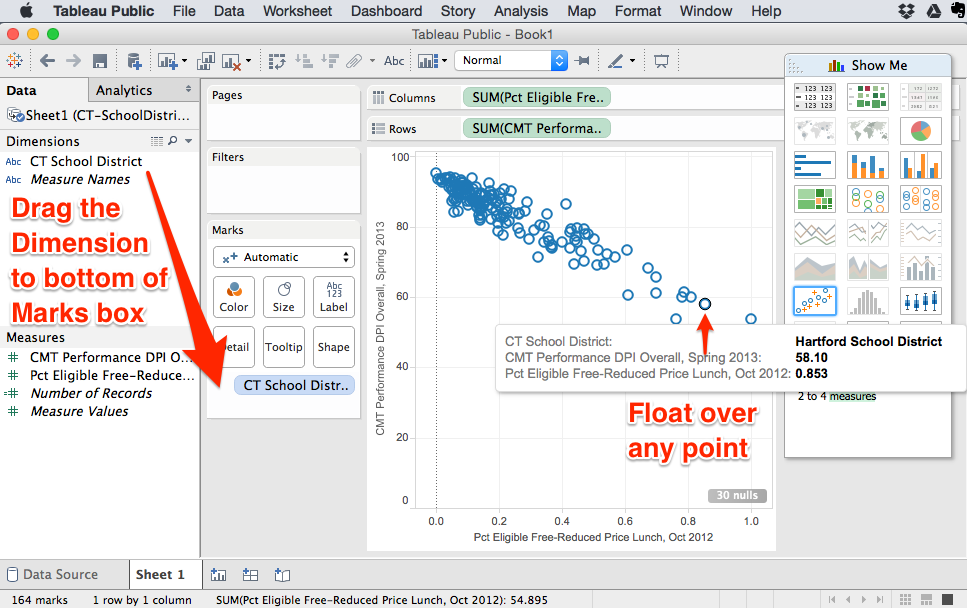
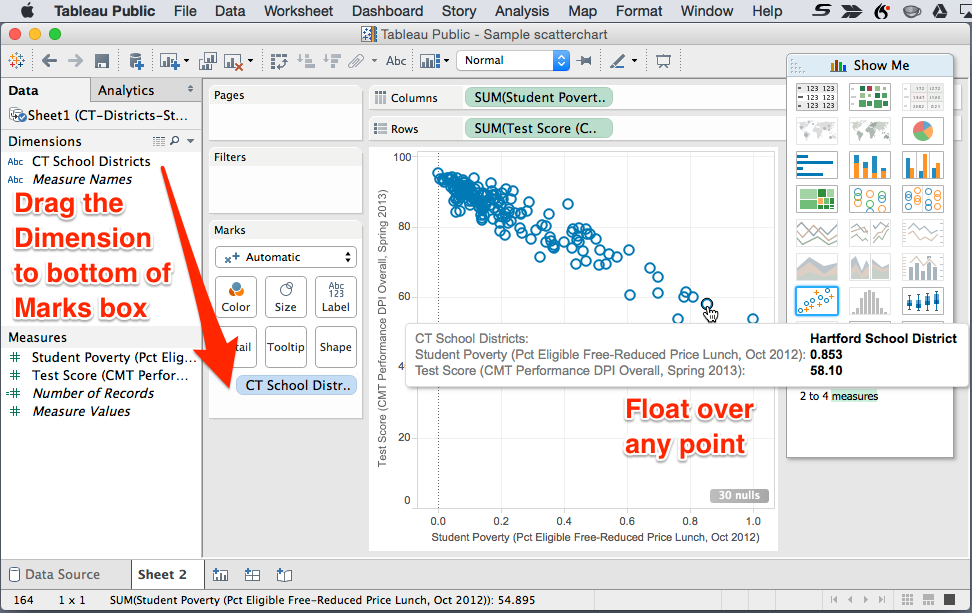
updated scatter chart

Changed region(s): [[0.0, 0.0, 1.0, 1.0], [0.2172, 0.25, 0.2482, 0.2812]]

diff --git a/chart/scatter-chart-tableau/README.md b/chart/scatter-chart-tableau/README.md
@@ -1,15 +1,17 @@
 # Create an XY Scatter Chart with Tableau Public
 
-A scatter chart shows the relationship between two variables by displaying a series of XY coordinate points. For example, if you want to view the relationship between a school district's test scores and its student poverty levels, place both of these variables inside an XY scatter chart, as shown below. With an online interactive version, viewers can explore the data and float over or click any point to see its label.
+*by [Jack Dougherty](introduction/contributors.md), last updated February 16, 2016*
 
-<!-- TO DO insert iframe of test and poverty here -->
+A scatter chart shows the relationship between two variables by displaying a series of XY coordinate points. For example, if you want to view the relationship between a school district's test scores and its student poverty levels, place both of these variables inside an XY scatter chart, as shown below. With an online interactive version, viewers can explore the data and float over or click any point to see its label. Try this sample:
+
+<script type='text/javascript' src='https://public.tableau.com/javascripts/api/viz_v1.js'></script><div class='tableauPlaceholder' style='width: 981px; height: 741px;'><noscript><a href='http:&#47;&#47;www.datavizbook.org&#47;content&#47;chart&#47;scatter-chart-tableau&#47;index.html'><img alt='Sheet1 ' src='https:&#47;&#47;public.tableau.com&#47;static&#47;images&#47;Da&#47;DataVizBook-simple-scatterchart&#47;Sheet1&#47;1_rss.png' style='border: none' /></a></noscript><object class='tableauViz' width='981' height='741' style='display:none;'><param name='host_url' value='https%3A%2F%2Fpublic.tableau.com%2F' /> <param name='site_root' value='' /><param name='name' value='DataVizBook-simple-scatterchart&#47;Sheet1' /><param name='tabs' value='no' /><param name='toolbar' value='yes' /><param name='static_image' value='https:&#47;&#47;public.tableau.com&#47;static&#47;images&#47;Da&#47;DataVizBook-simple-scatterchart&#47;Sheet1&#47;1.png' /> <param name='animate_transition' value='yes' /><param name='display_static_image' value='yes' /><param name='display_spinner' value='yes' /><param name='display_overlay' value='yes' /><param name='display_count' value='yes' /><param name='showVizHome' value='no' /><param name='showTabs' value='y' /><param name='bootstrapWhenNotified' value='true' /></object></div>
 
 ## Prepare your XY data
-For a simple XY scatter chart, create a spreadsheet that contains three columns: data labels, variable 1, and variable 2. For example, to compare how Connecticut school districts vary by student poverty and standardized test scores, I created this 3-column spreadsheet from two different tables that I found in the [Connecticut Open Data repository, Education section](https://data.ct.gov/Education).
+For a simple XY scatter chart, create a spreadsheet that contains three columns: data labels, variable 1, and variable 2. For example, to compare how Connecticut school districts vary by student poverty and test scores, this 3-column spreadsheet was created from two different tables in the [Connecticut Open Data repository, Education section](https://data.ct.gov/Education). [Download the sample data](CT-Districts-StudentPoverty-TestScore-2012-13.csv) in CSV format, which opens in any spreadsheet tool.
 
 ![](TableauPublic-prepare-data.png)
 
-TO DO: To learn how to join two different tables that share a similar column, see the VLookup instructions in this book, *to come*)
+Learn how to join two different tables that share a similar column, with the VLookup spreadsheet tutorial in this book, **to do**
 
 ## The Tableau Public tool
 Several tools can create scatter charts, but Tableau Public offers a relatively quick way to produce a highly interactive version that can easily be embedded on your site, with links to the data source.
@@ -44,15 +46,17 @@ To reinforce the concept, here's a short animated loop of the two dragging steps
 
 ## Sharing your Tableau Public on the web
 
-Go to File > Save to Tableau Public As. The next step requires signing up for a free Tableau account.
+Go to File > Save to Tableau Public As. The next step requires signing up for a free Tableau account and profile.
+
 ![](TableauPublic-save-as.png)
 
-Save your Tableau Public workbook, with a meaningful name. Your interactive chart and underlying data will be published on the Tableau server and become publicly available.
+Save your Tableau Public workbook, and give it a meaningful name. Your interactive chart and underlying data will be published on the Tableau server and become publicly available.
 
-After your workbook is saved on the server, Tableau Public will automatically open it in your default web browser. Click the Edit Details button to modify the title or add a brief description. Click the Share button to copy the embed code. Learn how to embed the interactive chart in your own website with iframe, in the [Publish section of this book](publish/README.md).
+After your workbook is saved on the server, Tableau Public should automatically open it in your default web browser. But if no workbook appears, look in your Tableau Public profile, which follows this format: https://public.tableau.com/profile/USERNAME
 
-### TO DO
-Redo the tutorial screenshots and steps by inserting simpler labels (Districts. . .; Poverty...; Test Scores...) in the Excel sheet, which will appear at front of the variable names.
+Click the Edit Details button to modify the title or add a brief description. Click the Share button to copy the embed code. Learn how to embed the interactive chart in your own website, in the [Publish section of this book](publish/README.md).
+
+![](TableauPublic-edit-embed.png)
 
 <a rel="license" href="http://creativecommons.org/licenses/by-nc/4.0/"><img alt="Creative Commons License" style="border-width:0" src="https://i.creativecommons.org/l/by-nc/4.0/88x31.png" /></a>
 

diff --git a/find/filtered-point-map-socrata/README.md b/find/filtered-point-map-socrata/README.md
@@ -22,36 +22,47 @@ Select your desired dataset in Socrata. In this tutorial, we will use CT Open Da
 ![](SocrataMap2.png)
 
 Filter the data to display only the desired rows. The CT Education Directory lists both district offices and school addresses, but for this map we only wish to display the latter. On the top-right corner of the table, click the Filter tab.
+
 ![](SocrataMap3.png)
 
 Add a New Filter Condition, which displays only the rows you select. In this tutorial, select “Organization Type” and “is”, then type the exact name from the table, such as “Public Schools.” Be sure to type it correctly or the filter may not work. If you wish to select multiple types, add a new filter condition for each. In this tutorial, we also will filter for other types: Public Charter Schools, CT Technical High Schools, Regional Schools, State Agency Facilities, Endowed and Incorporated Academies Schools, and Regional Education Service Center Schools.
+
 ![](SocrataMap4.png)
 
 Select the Visualize tab and choose Map, which will display several options. First, under Config for Education Direction, select Point Map as the Plot Style, and choose the Location column to identify the geocoordinates.
+
 ![](SocrataMap5.png)
 
 Further below in the Visualize > Map options, select the checkbox for Advanced Config for the Education Directory to edit the Flyout Details (similar to a pop-up information window) that displays details when users click on a map point. Select data items you wish to display, such as Title: Name, and additional Flyout Details: Organization Type, Location I, and Website. Further down, select the “w/o labels” checkbox to avoid displaying the column headers in your flyout details.
+
 ![](SocrataMap6.png)
 
 In Visualize > Map > Base Maps, select your desired background map, such as Google Roadmap.
+
 ![](SocrataMap7.png)
 
 Add a legend to display once you build the map. In the Advanced Configuration area, select the Legend Configuration checkbox and mark its position. After selecting all of these map options, click Apply. Socrata will generate your map with default point colors. Double-check to make sure your data appear, and that your Visualize settings are correct, before moving to the next step.
+
 ![](SocrataMap8.png)
 
 Assign point colors and legend labels by returning to the Filter tab, and select Conditional Formatting. Understand the difference between these two features. Previously, we used Filter to display only selected types of data (in this case, school buildings, rather than district administrative offices). Now, we will use Conditional Formatting to assign color codes and labels to our filtered data.
+
 ![](SocrataMap9.png)
 
 In the Conditional Formatting section, type a name into the Description that you wish to display in the legend. You may type a shorter name than the longer name that appears in the data table, such as “Charter Schools” instead of the longer “Public Charter Schools.” Also, select a color for each Description.
+
 ![](SocrataMap10.png)
 
 Continue to add Conditional Formatting by defining the data columns. In this example, select “All Conditions Apply,” choose “Organization Type” and “Is”, then type the category exactly as it appears in the data table (such as Public Charter Schools). For this map of schools in the CT Education Directory data table, we added several more types (Regional Schools, CT Technical High Schools, etc.) and also added a second rule to identify Magnet Schools (where Organization Type is Public Schools, and Interdistrict Schools is 1).
+
 ![](SocrataMap11.png)
 
 After setting all of your Conditional Formatting, press Apply at the bottom of the tab. Double-check that your visualization appears exactly as you wish, then Save As under an appropriate name. Note that your visualization will become <strong>publicly visible</strong> to other users on the Socrata open data platform, though you have the option to remove it via your individual profile view.
+
 ![](SocrataMap12.png)
 
 Visualizations created in the Socrata platform produce HTML iframe codes, which allows you to embed the dataviz in your own website. Select the Embed tab to view and copy the code code. See chapter in this book on [how to embed a dataviz iframe code in your website[(http://www.datavizbook.org/content/publish/embed-iframe/).
+
 ![](SocrataMap13.jpg)
 
 

diff --git a/README.md b/README.md
@@ -10,9 +10,15 @@ By Jack Dougherty (Trinity College, CT) and contributors.
 
 **[Read online](https://www.gitbook.com/read/book/jackdougherty/datavizbook)** (recommended) or download the [PDF](https://www.gitbook.com/download/pdf/book/jackdougherty/datavizbook) or [ePUB](https://www.gitbook.com/download/epub/book/jackdougherty/datavizbook) or [Mobi/Kindle](https://www.gitbook.com/download/mobi/book/jackdougherty/datavizbook) versions.
 
-**[Improve this book-in-progress](gitbook/improve.md)** with comments, revisions, additions.
+**[Improve this book-in-progress](gitbook/improve.md)** by adding comments.
 
-**[Learn how GitBook works](gitbook.README.md)** and create your own book. 
+![](gitbook/GitBook-comments-2016-02.gif)
+
+**[Suggest revisions or additions](gitbook/improve.md)** with edits on GitHub.
+
+![](gitbook/GitBook-edit-on-github.png)
+
+**[Learn how GitBook works](gitbook.README.md)** and publish your own book. 
 
 <a rel="license" href="http://creativecommons.org/licenses/by-nc/4.0/"><img alt="Creative Commons License" style="border-width:0" src="https://i.creativecommons.org/l/by-nc/4.0/88x31.png" /></a>
 
